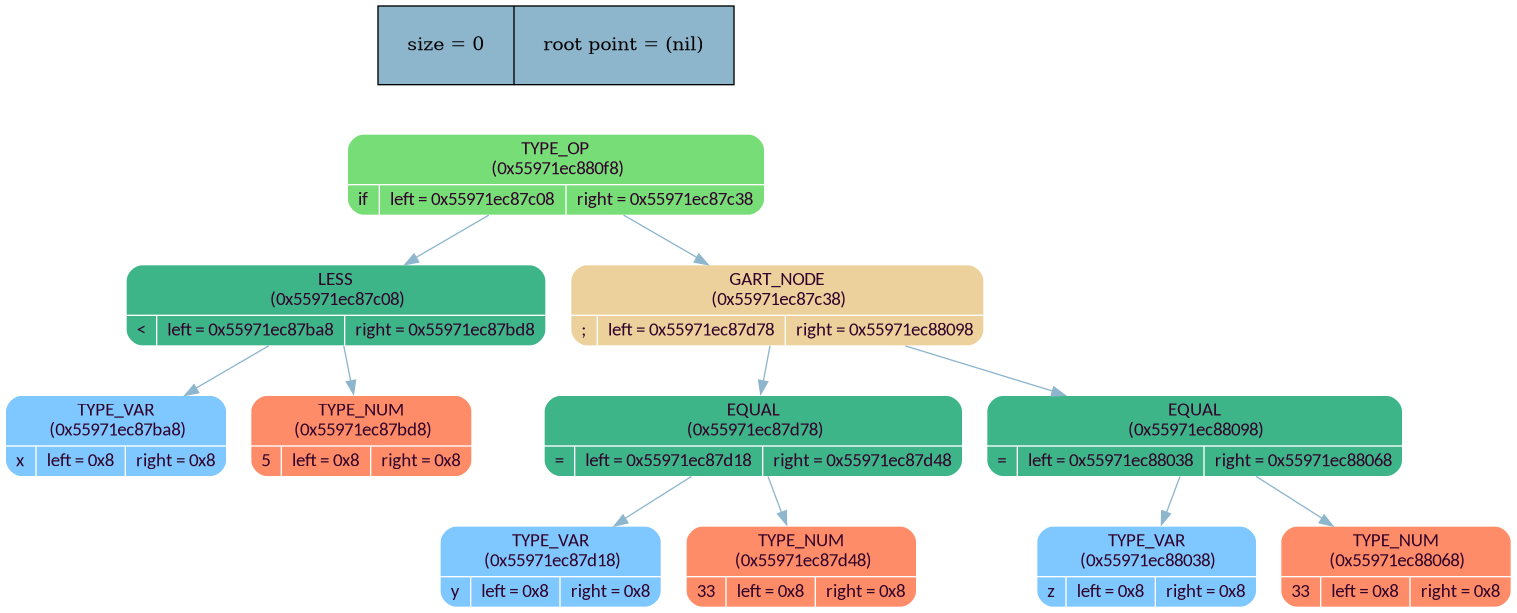
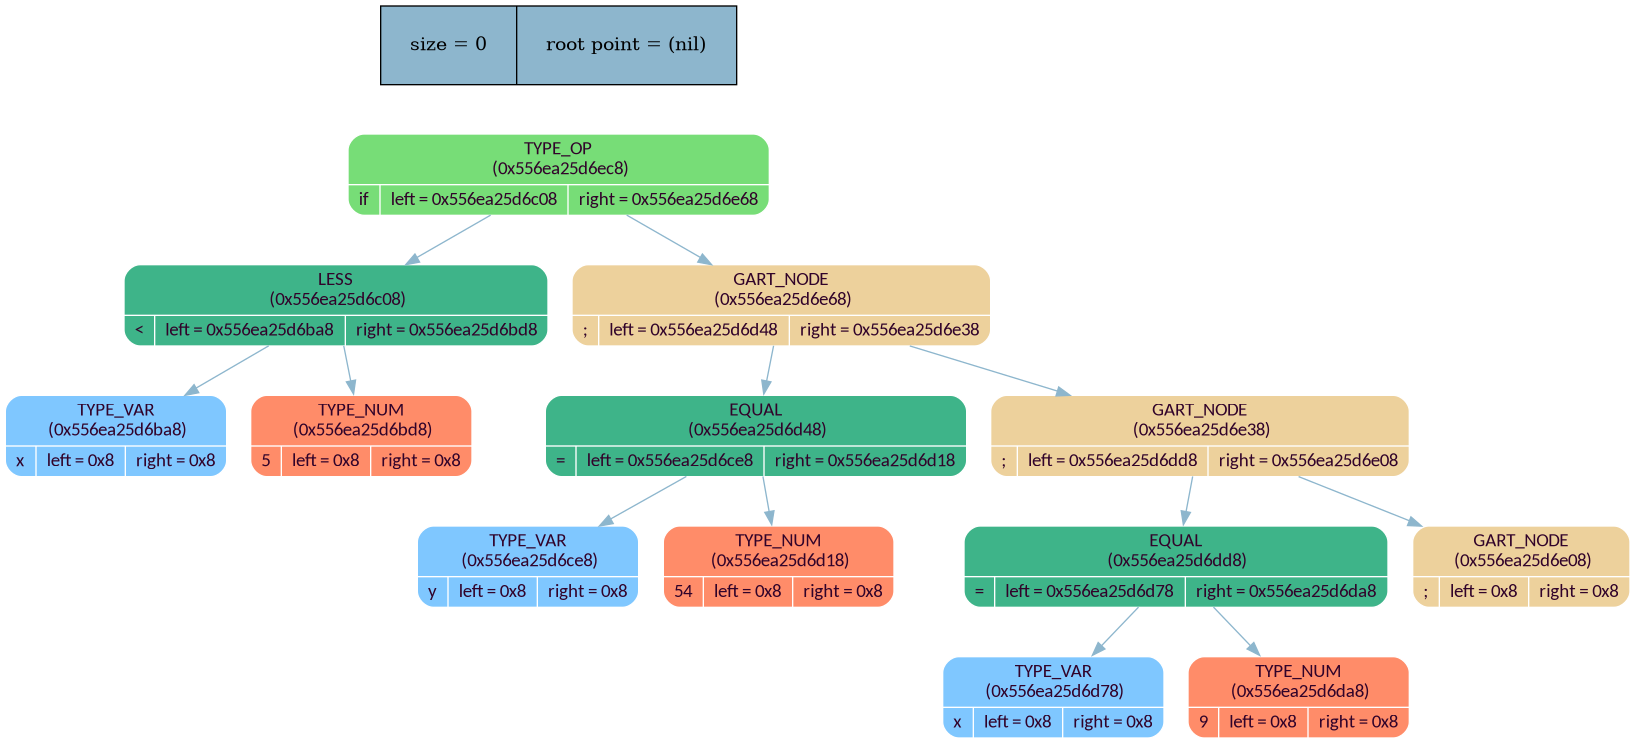
added new abilities of assignment

diff --git a/logs/log_file.html b/logs/log_file.html
@@ -2,24 +2,47 @@
 
 <font color = #8DB6CD size=6>Tree was successfully created</font>
 
-<font color = #7FC7FF size=5>Created TYPE_VAR node: address (0x55e8e58abbb8) | var    (x)</font>
-<font color = #FF8C69 size=5>Created TYPE_NUM node: address (0x55e8e58abbe8) | value  (5)</font>
-<font color = #77DD77 size=5>Created TYPE_OP  node: address (0x55e8e58abc18) | op_code (60)</font>
-<font color = #6018CF size=5>Created edge: parent address (0x55e8e58abc18)   | op_code (60); left  (0x55e8e58abbb8)  | op_code (120)</font>
-<font color = #6018CF size=5>Created edge: parent address (0x55e8e58abc18)   | op_code (60); right  (0x55e8e58abbe8) | op_code (10)</font>
-<font color = #7FC7FF size=5>Created TYPE_VAR node: address (0x55e8e58abc48) | var    (x)</font>
-<font color = #FF8C69 size=5>Created TYPE_NUM node: address (0x55e8e58abc78) | value  (5)</font>
-<font color = #77DD77 size=5>Created TYPE_OP  node: address (0x55e8e58abca8) | op_code (60)</font>
-<font color = #6018CF size=5>Created edge: parent address (0x55e8e58abca8)   | op_code (60); left  (0x55e8e58abc48)  | op_code (120)</font>
-<font color = #6018CF size=5>Created edge: parent address (0x55e8e58abca8)   | op_code (60); right  (0x55e8e58abc78) | op_code (10)</font>
-<font color = #7FC7FF size=5>Created TYPE_VAR node: address (0x55e8e58abcd8) | var    (x)</font>
-<font color = #FF8C69 size=5>Created TYPE_NUM node: address (0x55e8e58abd08) | value  (5)</font>
-<font color = #77DD77 size=5>Created TYPE_OP  node: address (0x55e8e58abd38) | op_code (61)</font>
-<font color = #6018CF size=5>Created edge: parent address (0x55e8e58abd38)   | op_code (61); left  (0x55e8e58abcd8)  | op_code (120)</font>
-<font color = #6018CF size=5>Created edge: parent address (0x55e8e58abd38)   | op_code (61); right  (0x55e8e58abd08) | op_code (10)</font>
-<font color = #77DD77 size=5>Created TYPE_OP  node: address (0x55e8e58abd68) | op_code (105)</font>
-<font color = #6018CF size=5>Created edge: parent address (0x55e8e58abd68)   | op_code (105); left  (0x55e8e58abca8)  | op_code (60)</font>
-<font color = #6018CF size=5>Created edge: parent address (0x55e8e58abd68)   | op_code (105); right  (0x55e8e58abd38) | op_code (61)</font>
-<font color = #77DD77 size=5>Created TYPE_OP  node: address (0x55e8e58abd98) | op_code (105)</font>
-<font color = #6018CF size=5>Created edge: parent address (0x55e8e58abd98)   | op_code (105); left  (0x55e8e58abc18)  | op_code (60)</font>
-<font color = #6018CF size=5>Created edge: parent address (0x55e8e58abd98)   | op_code (105); right  (0x55e8e58abd68) | op_code (105)</font>
+<font color = #7FC7FF size=5>Created TYPE_VAR node: address (0x556ea25d6ba8) | var    (x)</font>
+<font color = #FF8C69 size=5>Created TYPE_NUM node: address (0x556ea25d6bd8) | value  (5)</font>
+<font color = #77DD77 size=5>Created TYPE_OP  node: address (0x556ea25d6c08) | op_code (60)</font>
+<font color = #6018CF size=5>Created edge: parent address (0x556ea25d6c08)   | op_code (60); left  (0x556ea25d6ba8)  | op_code (120)</font>
+<font color = #6018CF size=5>Created edge: parent address (0x556ea25d6c08)   | op_code (60); right  (0x556ea25d6bd8) | op_code (10)</font>
+<font color = #7FC7FF size=5>Created TYPE_VAR node: address (0x556ea25d6ce8) | var    (x)</font>
+<font color = #FF8C69 size=5>Created TYPE_NUM node: address (0x556ea25d6d18) | value  (54)</font>
+<font color = #77DD77 size=5>Created TYPE_OP  node: address (0x556ea25d6d48) | op_code (61)</font>
+<font color = #6018CF size=5>Created edge: parent address (0x556ea25d6d48)   | op_code (61); left  (0x556ea25d6ce8)  | op_code (120)</font>
+<font color = #6018CF size=5>Created edge: parent address (0x556ea25d6d48)   | op_code (61); right  (0x556ea25d6d18) | op_code (10)</font>
+<font color = #7FC7FF size=5>Created TYPE_VAR node: address (0x556ea25d6d78) | var    (x)</font>
+<font color = #FF8C69 size=5>Created TYPE_NUM node: address (0x556ea25d6da8) | value  (9)</font>
+<font color = #77DD77 size=5>Created TYPE_OP  node: address (0x556ea25d6dd8) | op_code (61)</font>
+<font color = #6018CF size=5>Created edge: parent address (0x556ea25d6dd8)   | op_code (61); left  (0x556ea25d6d78)  | op_code (120)</font>
+<font color = #6018CF size=5>Created edge: parent address (0x556ea25d6dd8)   | op_code (61); right  (0x556ea25d6da8) | op_code (10)</font>
+<font color = #77DD77 size=5>Created TYPE_OP  node: address (0x556ea25d6e08) | op_code (59)</font>
+<font color = #77DD77 size=5>Created TYPE_OP  node: address (0x556ea25d6e38) | op_code (59)</font>
+<font color = #6018CF size=5>Created edge: parent address (0x556ea25d6e38)   | op_code (59); left  (0x556ea25d6dd8)  | op_code (61)</font>
+<font color = #6018CF size=5>Created edge: parent address (0x556ea25d6e38)   | op_code (59); right  (0x556ea25d6e08) | op_code (59)</font>
+<font color = #77DD77 size=5>Created TYPE_OP  node: address (0x556ea25d6e68) | op_code (59)</font>
+<font color = #6018CF size=5>Created edge: parent address (0x556ea25d6e68)   | op_code (59); left  (0x556ea25d6d48)  | op_code (61)</font>
+<font color = #6018CF size=5>Created edge: parent address (0x556ea25d6e68)   | op_code (59); right  (0x556ea25d6e38) | op_code (59)</font>
+<font color = #77DD77 size=5>Created TYPE_OP  node: address (0x556ea25d6e98) | op_code (59)</font>
+<font color = #77DD77 size=5>Created TYPE_OP  node: address (0x556ea25d6ec8) | op_code (105)</font>
+<font color = #6018CF size=5>Created edge: parent address (0x556ea25d6ec8)   | op_code (105); left  (0x556ea25d6c08)  | op_code (60)</font>
+<font color = #6018CF size=5>Created edge: parent address (0x556ea25d6ec8)   | op_code (105); right  (0x556ea25d6e68) | op_code (59)</font>
+
+
+<font color = #8DB6CD size = 6>Here is the print of your tree</font>
+
+<img src = ../logs/log_pics/tree_d1.png width = 800 height = 350>
+<font color = orange size=5>Node was removed: address (0x556ea25d6ba8) </font>
+<font color = orange size=5>Node was removed: address (0x556ea25d6bd8) </font>
+<font color = orange size=5>Node was removed: address (0x556ea25d6c08) </font>
+<font color = orange size=5>Node was removed: address (0x556ea25d6ce8) </font>
+<font color = orange size=5>Node was removed: address (0x556ea25d6d18) </font>
+<font color = orange size=5>Node was removed: address (0x556ea25d6d48) </font>
+<font color = orange size=5>Node was removed: address (0x556ea25d6d78) </font>
+<font color = orange size=5>Node was removed: address (0x556ea25d6da8) </font>
+<font color = orange size=5>Node was removed: address (0x556ea25d6dd8) </font>
+<font color = orange size=5>Node was removed: address (0x556ea25d6e08) </font>
+<font color = orange size=5>Node was removed: address (0x556ea25d6e38) </font>
+<font color = orange size=5>Node was removed: address (0x556ea25d6e68) </font>
+<font color = orange size=5>Node was removed: address (0x556ea25d6ec8) </font>

diff --git a/frontend/rec_descent.cpp b/frontend/rec_descent.cpp
@@ -30,6 +30,10 @@ tree_node_t* get_operator (const char* buffer, prog_data_t* prog_stat)
     {
         return get_if (buffer, prog_stat);
     }
+    else if (strncomp (buffer + pos_in_file, "end!\n", strlen ("end!\n"), STR_SKIP_SPACE))
+    {
+        return make_gart_node ();
+    }
     return get_assign (buffer, prog_stat);
 }
 
@@ -45,7 +49,7 @@ tree_node_t* get_if (const char* buffer, prog_data_t* prog_stat)
         // tree_node_t* r_exp_node  = get_operator (buffer, prog_stat);
         // tree_link_r (garten_node, r_exp_node);
 
-        //  get_end (buffer, prog_stat);
+        get_end (buffer, prog_stat);
         return tree_new_op_node (OP_IF, cond_node, expr_node); // not return go to get right node (assigment or operator)
     }
     return get_operator (buffer, prog_stat); //remove
@@ -100,9 +104,12 @@ tree_node_t* get_assign (const char* buffer, prog_data_t* prog_stat)
     {
         pos_in_file++;
         tree_node_t* assign_node = get_sign (buffer, prog_stat);
-        if (strncomp (buffer + pos_in_file, ";", strlen (";"), STR_SKIP_SPACE))
+        if (strncomp (buffer + pos_in_file, ";\n", strlen (";\n"), STR_SKIP_SPACE))
         {
-            return tree_new_op_node (OP_EQ, tree_node, assign_node);
+            tree_node_t* l_exp = tree_new_op_node (OP_EQ, tree_node, assign_node);
+            tree_node_t* r_exp = get_operator (buffer, prog_stat);
+
+            return make_gart_node (l_exp, r_exp);
         }
         syntax_error (S_UNREC_SYNTAX_ERROR, buffer, CUR_POS_IN_PROG);
     }
@@ -111,16 +118,11 @@ tree_node_t* get_assign (const char* buffer, prog_data_t* prog_stat)
 
 tree_node_t* get_area_end (const char* buffer, prog_data_t* prog_stat)
 {
+    printf ("here\n");
     if (strncomp (buffer + pos_in_file, "end!\n", strlen ("end!\n"), STR_SKIP_SPACE))
     {
-        printf ("here\n");
         return make_gart_node ();
     }
-
-//     else if (strncomp (buffer + pos_in_file, ";", strlen (";"), STR_SKIP_SPACE))
-//     {
-//
-//     }
     syntax_error (S_UNREC_SYNTAX_ERROR, buffer, CUR_POS_IN_PROG);
 }
 
@@ -146,7 +148,7 @@ tree_node_t* get_ident (const char* buffer, prog_data_t* prog_stat) //add multis
         pos_in_file++;
         return tree_new_var_node (TYPE_VAR, var);
     }
-    else return get_num (buffer, prog_stat);
+    else return get_num  (buffer, prog_stat);
 
 }
 

diff --git a/frontend/DSL.h b/frontend/DSL.h
@@ -3,7 +3,7 @@
 
 //-------------------------------------------------------------------------------------------------------------------------------
 
-tree_node_t* make_gart_node ();
+tree_node_t* make_gart_node (tree_node_t* l_child = NULL, tree_node_t* r_child = NULL);
 
 //---------------------------------------------------------------------------------------------------------------------
 

diff --git a/frontend/DSL.cpp b/frontend/DSL.cpp
@@ -1,8 +1,8 @@
 #include "DSL.h"
 
-tree_node_t* make_gart_node ()
+tree_node_t* make_gart_node (tree_node_t* l_child, tree_node_t* r_child)
 {
-    return tree_new_op_node (OP_GART_N);
+    return tree_new_op_node (OP_GART_N, l_child, r_child);
 }
 
 tree_node_t* New_num (tree_data_type value)
